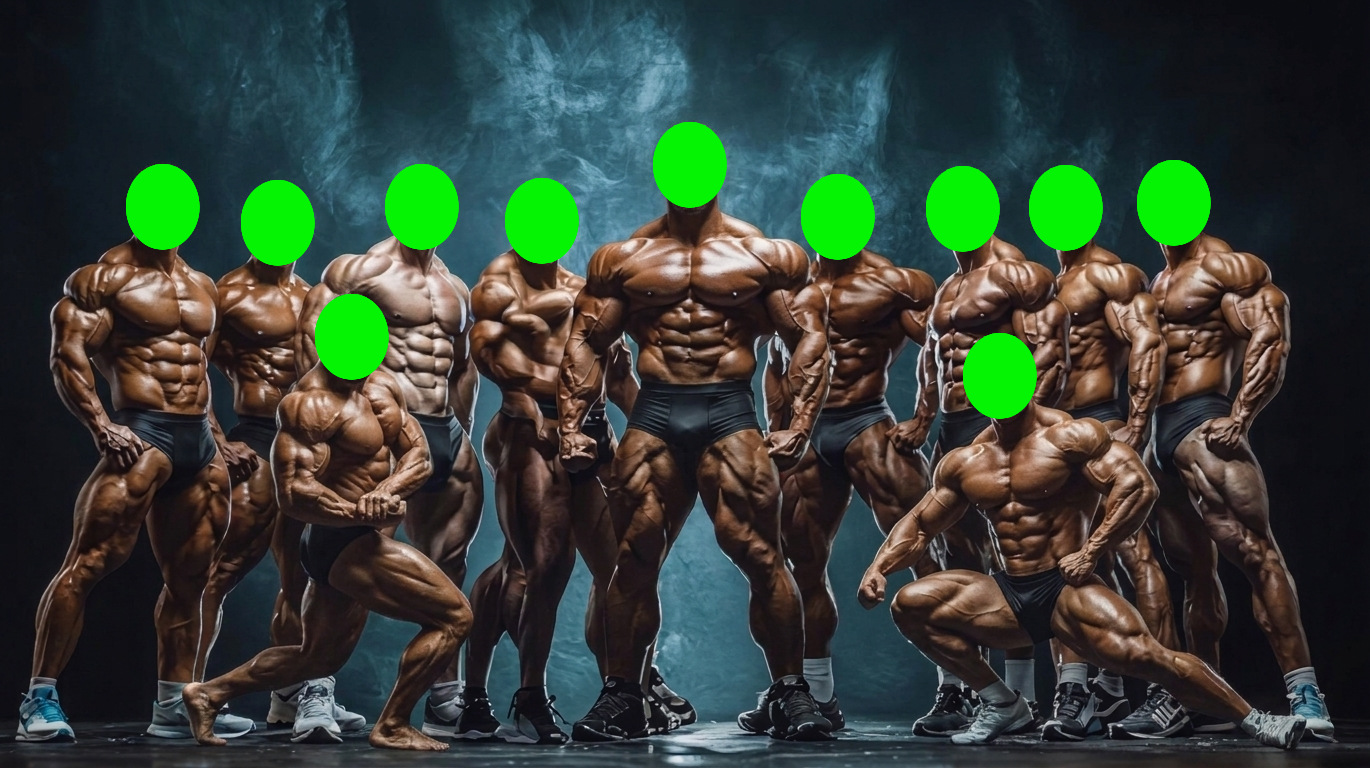
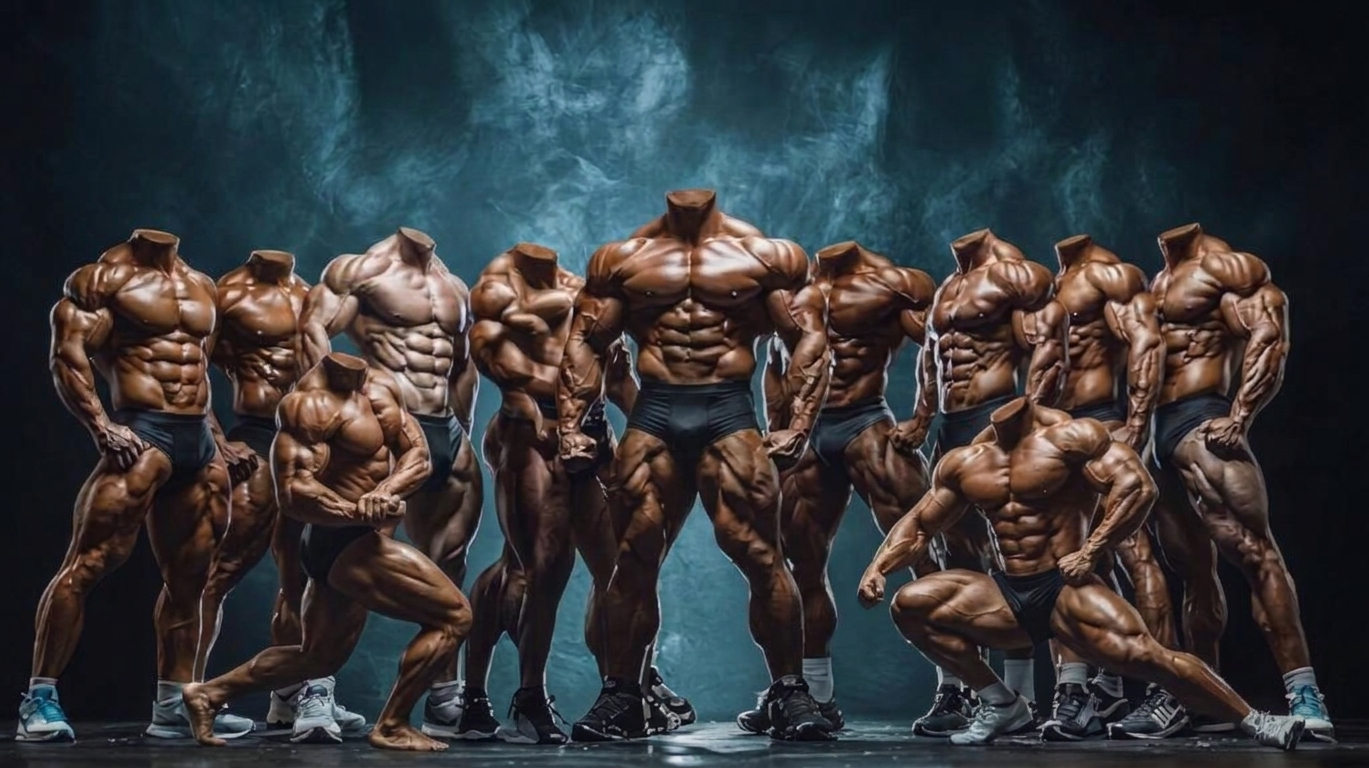
Bodybuilders: heads on headless bodies
The photo now has headless bodies. New bodyScene type: each person's head
(a soft oval, hair to chin) is sized from the neck and placed with the chin
just over the neck top; shoulders and shirt are masked away.

diff --git a/public/scenes.js b/public/scenes.js
@@ -350,19 +350,50 @@
     };
   }
 
-  // Bodybuilders (assets/bg/bodybuilders.jpg): 11 holes, the middle one first, then the two kneeling at
+  // ---------- Heads on bodies ----------
+
+  // A photo of headless bodies. Each person's head (their cut-out, faded out below the chin) goes on top
+  // of a neck: necks are [x, y, width] for the middle of each neck's top edge on the stage. Heads are
+  // sized from the neck's width and placed so the chin sits a little over the neck top.
+  const CHIN_AT = 0.585; // how far down each person's picture their chin is (see updateCrop in client.js)
+  function bodyScene({ id, name, src, necks, tone, headScale = 4.1 }) {
+    return {
+      id,
+      name,
+      kind: 'heads',
+      capacity: necks.length,
+      tone,
+      seats: necks.map(([x, y, w]) => {
+        const size = w * headScale;
+        return { x: x - size / 2, y: y + w * 0.3 - CHIN_AT * size, size, neck: { x, y, w } };
+      }),
+      draw(c) {
+        drawPhoto(c, src);
+      },
+    };
+  }
+
+  // Bodybuilders (assets/bg/bodybuilders.jpg): 11 bodies. The middle one first, then the two kneeling at
   // the front, then outwards.
-  const bodybuilders = holeScene({
+  const bodybuilders = bodyScene({
     id: 'bodybuilders',
     name: 'Bodybuilders',
     src: 'assets/bg/bodybuilders.jpg',
-    holes: [[644, 154], [327, 315], [935, 352], [505, 207], [783, 203], [393, 194], [900, 195], [258, 209], [997, 195], [150, 194], [1098, 190]],
-    holeW: 69.4,
-    holeH: 80.6,
+    necks: [
+      [645, 180, 47],
+      [322, 334, 39],
+      [945, 375, 39],
+      [505, 232, 41],
+      [786, 230, 41],
+      [387, 218, 43],
+      [912, 218, 41],
+      [251, 239, 39],
+      [1006, 223, 39],
+      [144, 220, 43],
+      [1105, 214, 41],
+    ],
     // Warm, contrasty stage lighting to match the bodies.
     tone: 'contrast(1.1) saturate(1.1) sepia(0.15) brightness(0.98)',
-    // Faces blend into the necks over about 8 pixels of the photo.
-    feather: 8,
   });
 
   // The Matey Bunch (assets/bg/the-matey-bunch.jpg): the photo's 3×3 grid with the logo in the middle
@@ -397,7 +428,7 @@
   function layout(sceneId, n) {
     const scene = byId(sceneId);
     // Boards have a fixed number of holes: anyone beyond that isn't in the picture.
-    if (scene.kind === 'holes') return scene.seats.slice(0, Math.min(n, scene.capacity));
+    if (scene.kind === 'holes' || scene.kind === 'heads') return scene.seats.slice(0, Math.min(n, scene.capacity));
     if (scene.kind === 'grid') {
       return scene.cells(n).slice(0, n).map((cell) => {
         // Head and shoulders filling the cell's height, face in the upper middle.
@@ -426,7 +457,14 @@
     const seats = layout(sceneId, people.length);
     const at = new Map(people.map((p) => [p.seat, p]));
     c.save();
-    if (scene.kind === 'holes') {
+    if (scene.kind === 'heads') {
+      // The bodies, then everyone's head on top, back to front (higher necks are further back).
+      scene.draw(c);
+      seats
+        .map((s, i) => ({ s, p: at.get(i) }))
+        .sort((a, b) => a.s.neck.y - b.s.neck.y)
+        .forEach(({ s, p }) => drawPerson(c, p, s, scene));
+    } else if (scene.kind === 'holes') {
       // Faces first, behind the board; the board's see-through holes frame them.
       c.fillStyle = '#16100d';
       c.fillRect(0, 0, W, H);
@@ -529,6 +567,24 @@
     t.filter = `${scene.tone}${depth ? ` blur(${(depth * res).toFixed(2)}px)` : ''}`;
     t.drawImage(crisp || person.image, 0, 0, px, px);
     t.filter = 'none';
+    if (s.neck) {
+      // Heads only: keep a soft oval around the head (hair to chin), so shoulders and shirt disappear and
+      // the body underneath is the photo's.
+      const cx = px / 2;
+      const cy = 0.33 * px;
+      const ry = (CHIN_AT - 0.33 + 0.02) * px;
+      const rx = 0.24 * px;
+      t.save();
+      t.globalCompositeOperation = 'destination-in';
+      t.translate(cx, cy);
+      t.scale(rx / ry, 1);
+      const g = t.createRadialGradient(0, 0, ry * 0.86, 0, 0, ry);
+      g.addColorStop(0, 'rgba(0,0,0,1)');
+      g.addColorStop(1, 'rgba(0,0,0,0)');
+      t.fillStyle = g;
+      t.fillRect(-px * 2, -px, px * 4, px * 2);
+      t.restore();
+    }
     if (rows) {
       // The desk's (or step's) shadow across their lower body.
       const benchY = (s.bench - y) * res;

diff --git a/test/scenes.test.js b/test/scenes.test.js
@@ -52,15 +52,15 @@ test('the Brady Bunch grid grows with the group', () => {
   assert.ok(Scenes.bradyCells(12).length >= 12);
 });
 
-test('the bodybuilders board has a face for each of its 11 holes', () => {
+test('the bodybuilders have a head for each of their 11 necks', () => {
   const scene = Scenes.byId('bodybuilders');
   assert.equal(scene.capacity, 11);
   const seats = Scenes.layout('bodybuilders', 12);
   assert.equal(seats.length, 11);
   seats.forEach((s) => {
-    // The face (FACE_AT down the picture) lands in its hole.
-    const fy = s.y + s.size * 0.38;
-    assert.ok(Math.abs(s.x + s.size / 2 - s.hole.cx) < 1);
-    assert.ok(Math.abs(fy - s.hole.cy) < s.hole.h * 0.2);
+    // Centred over the neck, with the chin (0.585 down the picture) just below the neck's top.
+    assert.ok(Math.abs(s.x + s.size / 2 - s.neck.x) < 1);
+    const chin = s.y + s.size * 0.585;
+    assert.ok(chin > s.neck.y && chin < s.neck.y + s.neck.w, `chin ${chin} neck ${s.neck.y}`);
   });
 });

diff --git a/README.md b/README.md
@@ -8,7 +8,7 @@ A group photobooth for remote mates, in the style of Teams' Together Mode. Every
   - **Outdoor Theatre**: sunny concrete steps among trees ([`public/assets/bg/outdoor-theatre.jpg`](public/assets/bg/outdoor-theatre.jpg)). Everyone sits on a step, and its front edge hides them from the seat down.
   - **Stadium**: rows of blue stadium seats.
   - **The Matey Bunch**: a Brady Bunch style title card ([`public/assets/bg/the-matey-bunch.jpg`](public/assets/bg/the-matey-bunch.jpg)) with up to 8 mates in the squares around the logo, filled in a balanced order. Cut-outs here have crisp edges (no feathering) and run flush to the bottom of their square.
-  - **Bodybuilders**: a fairground face-in-hole board ([`public/assets/bg/bodybuilders.jpg`](public/assets/bg/bodybuilders.jpg)) with 11 green holes. The green is keyed out and the board fades out softly around each hole, so each face (scaled to fill its hole, behind the board) blends into its neck. Empty holes, and any gaps around a face, are filled with the photo's surrounding colours, blurred. The middle hole fills first, then the two kneeling at the front, then outwards. Up to 11 mates (the button greys out with more in the booth). Groups of 9 to 12 get a bigger drawn grid.
+  - **Bodybuilders**: 11 headless bodybuilders ([`public/assets/bg/bodybuilders.jpg`](public/assets/bg/bodybuilders.jpg)). Everyone's head goes on a body: it's sized from the neck, the chin sits just over the neck, and everything below the chin fades out so the body is the photo's. The middle body fills first, then the two kneeling at the front, then outwards. Up to 11 mates (the button greys out with more in the booth).
   In the photo scenes and the stadium, the desk, step or row of seats in front of you hides your lower half, so everyone looks like they're really sitting there. To make it look like one photo, each person is colour matched to the scene, shaded where the desk's shadow falls across them, given a soft shadow behind, softened slightly in the back rows, and the whole picture gets a fine film grain. If you sit close to your camera (so your body ends early), you're grown a little and lowered just enough for the desk to hide where it ends. Anyone can switch scenes or shuffle the seats, and everyone sees the change.
 - **The photo**: anyone can press **Take photo**. Everyone sees the same countdown and flash. At the shutter, each browser takes a full-quality picture of its own person and sends it to everyone else, and every browser puts together the same high-resolution group photo (2560×1440 PNG), so everyone can download it. Every photo from the booth stays in a strip under the controls, so anyone can go back and download any of them.
 - **Up to 12 mates** per booth. Someone without a camera (or who has wandered off) shows as a silhouette in their colour.
@@ -43,4 +43,4 @@ Every push to `main` runs the tests and publishes the `public/` folder to GitHub
 
 ## Scenes and art
 
-Each scene in [`public/scenes.js`](public/scenes.js) lists its rows of seats: where each desk edge is, where a seated face goes, how big people are in that row, and where the chairs are. A photo scene (`photoScene`) draws the photo, then after each row of people redraws the photo from that row's desk or step edge down, so the photo itself hides everyone's lower half. To add one, use a straight-on photo of rows of seats or steps with horizontal edges, and measure those positions on the 1280×720 stage. A face-in-hole board (`holeScene`) is any photo with bright green (#00ff00) ovals where faces go; list each oval's centre on the stage and its size. The stadium is drawn in code.
+Each scene in [`public/scenes.js`](public/scenes.js) lists its rows of seats: where each desk edge is, where a seated face goes, how big people are in that row, and where the chairs are. A photo scene (`photoScene`) draws the photo, then after each row of people redraws the photo from that row's desk or step edge down, so the photo itself hides everyone's lower half. To add one, use a straight-on photo of rows of seats or steps with horizontal edges, and measure those positions on the 1280×720 stage. A heads-on-bodies scene (`bodyScene`) is a photo of headless bodies; list the middle and width of each neck's top edge on the stage. A face-in-hole board (`holeScene`) is any photo with bright green (#00ff00) ovals where faces go; list each oval's centre on the stage and its size. The stadium is drawn in code.
